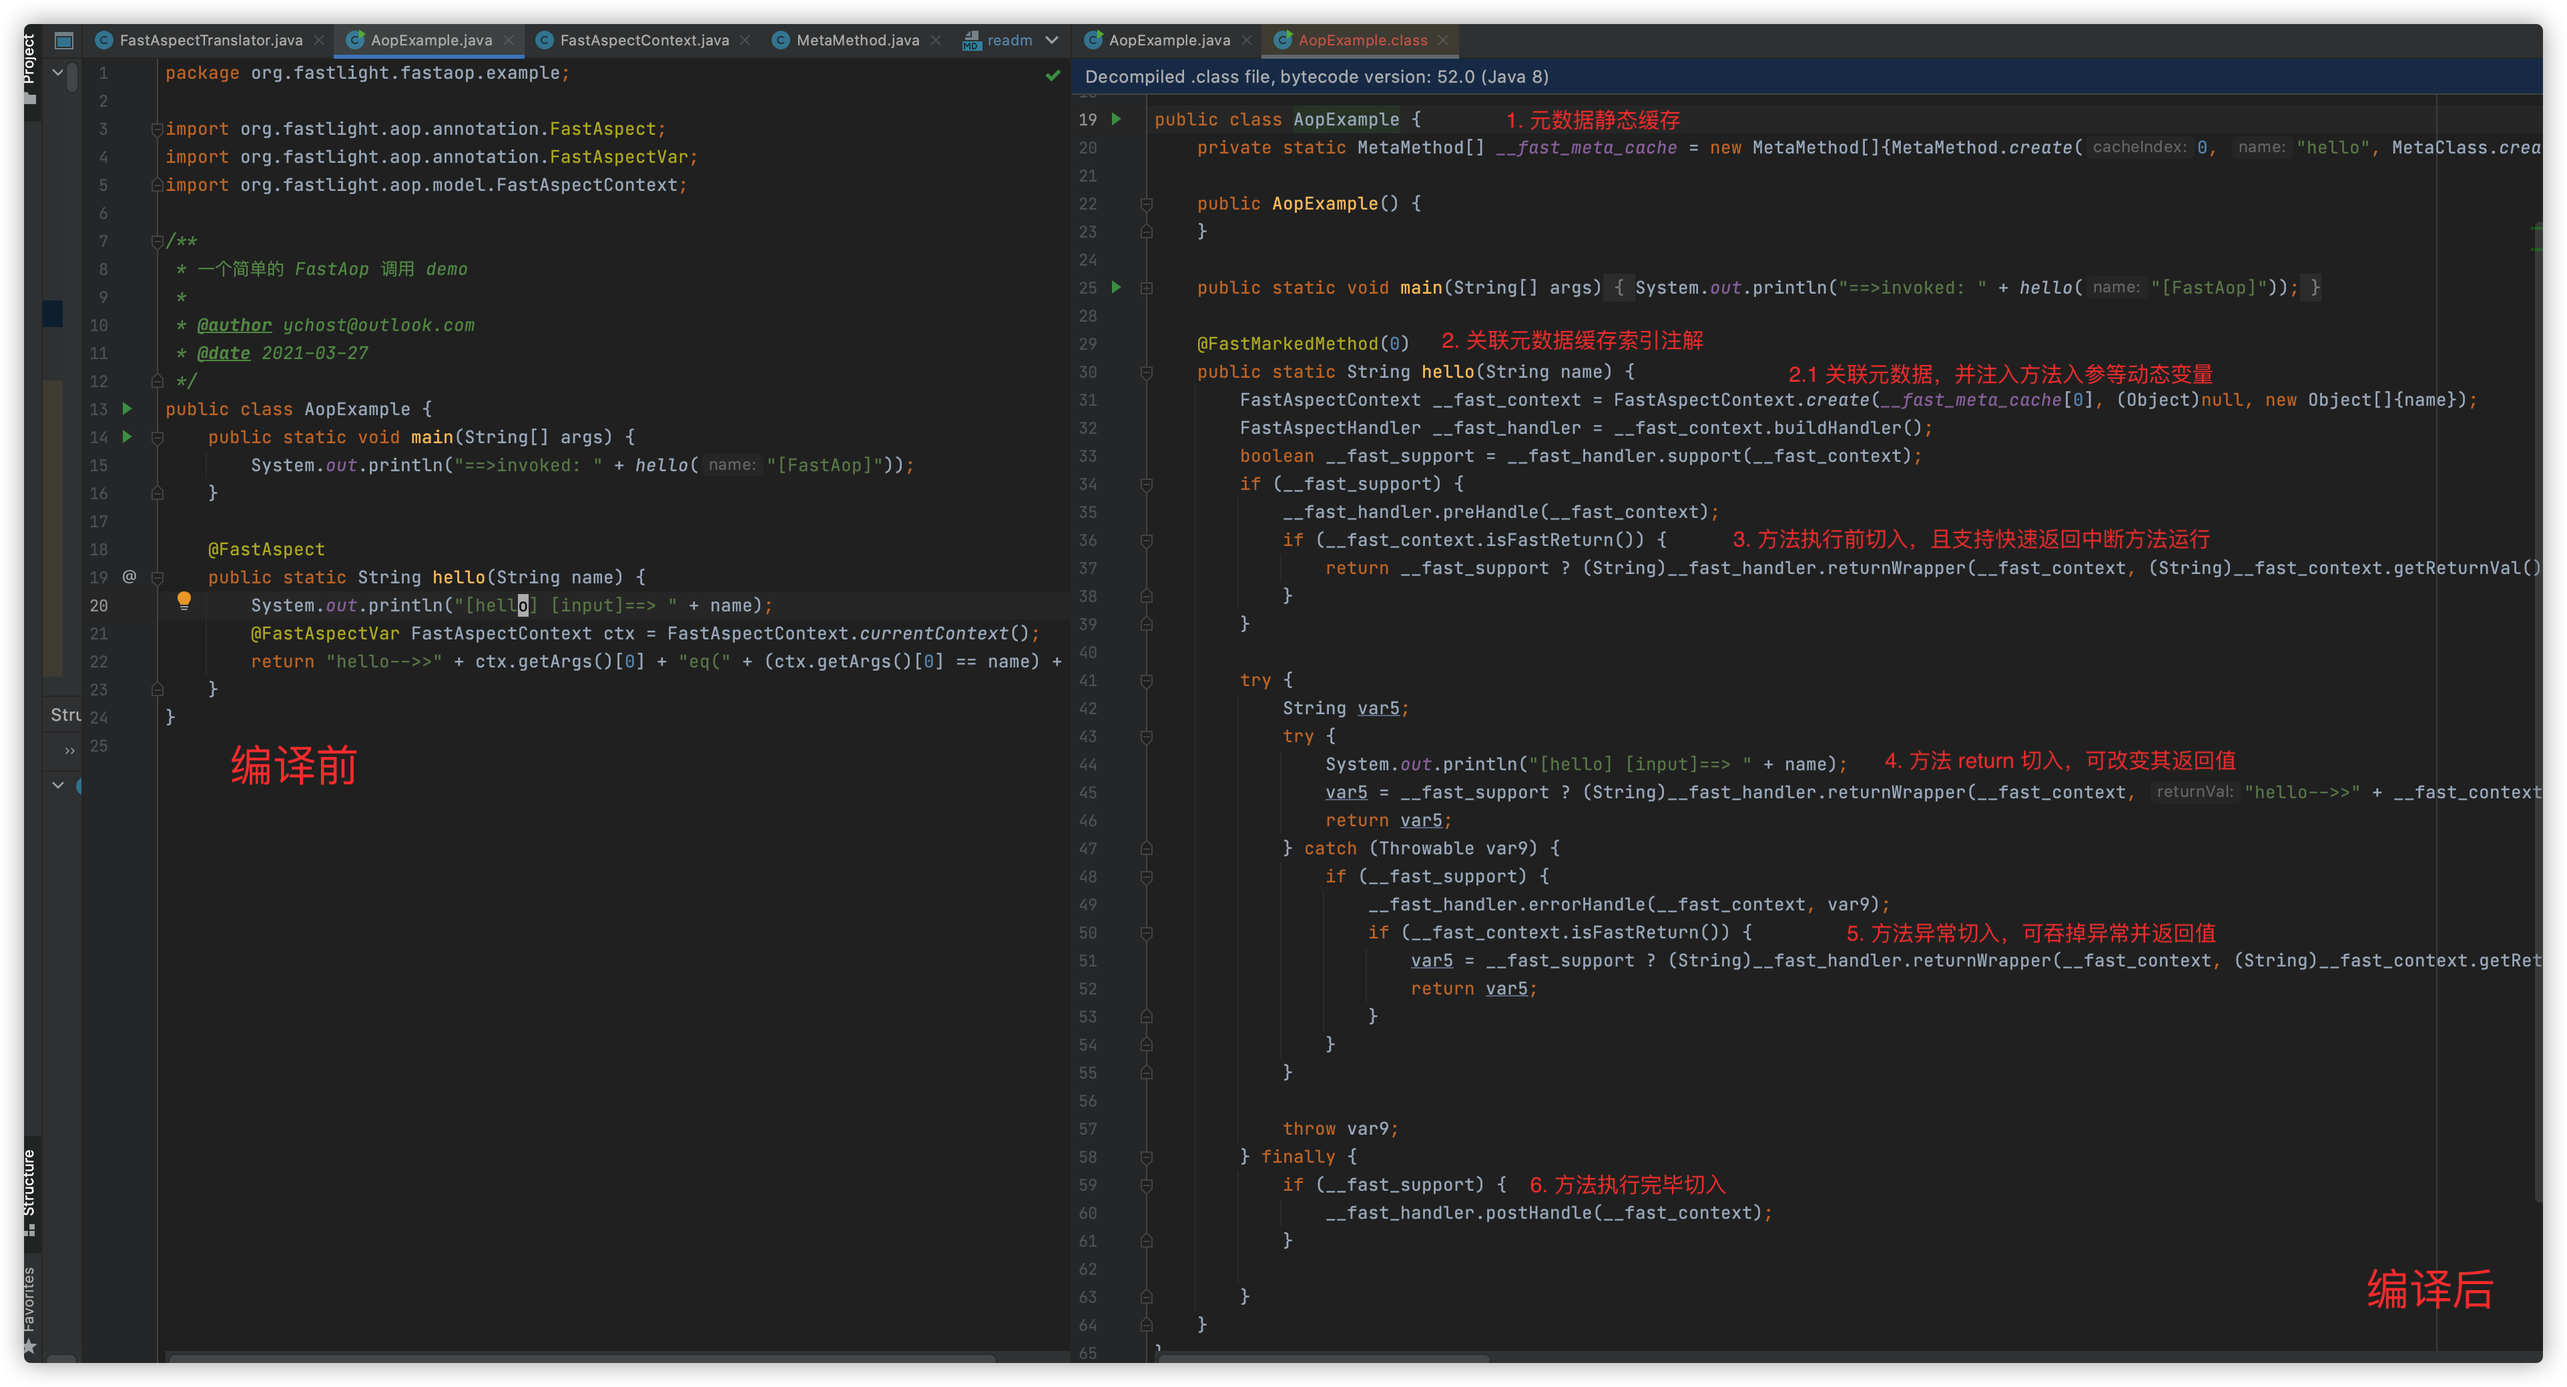
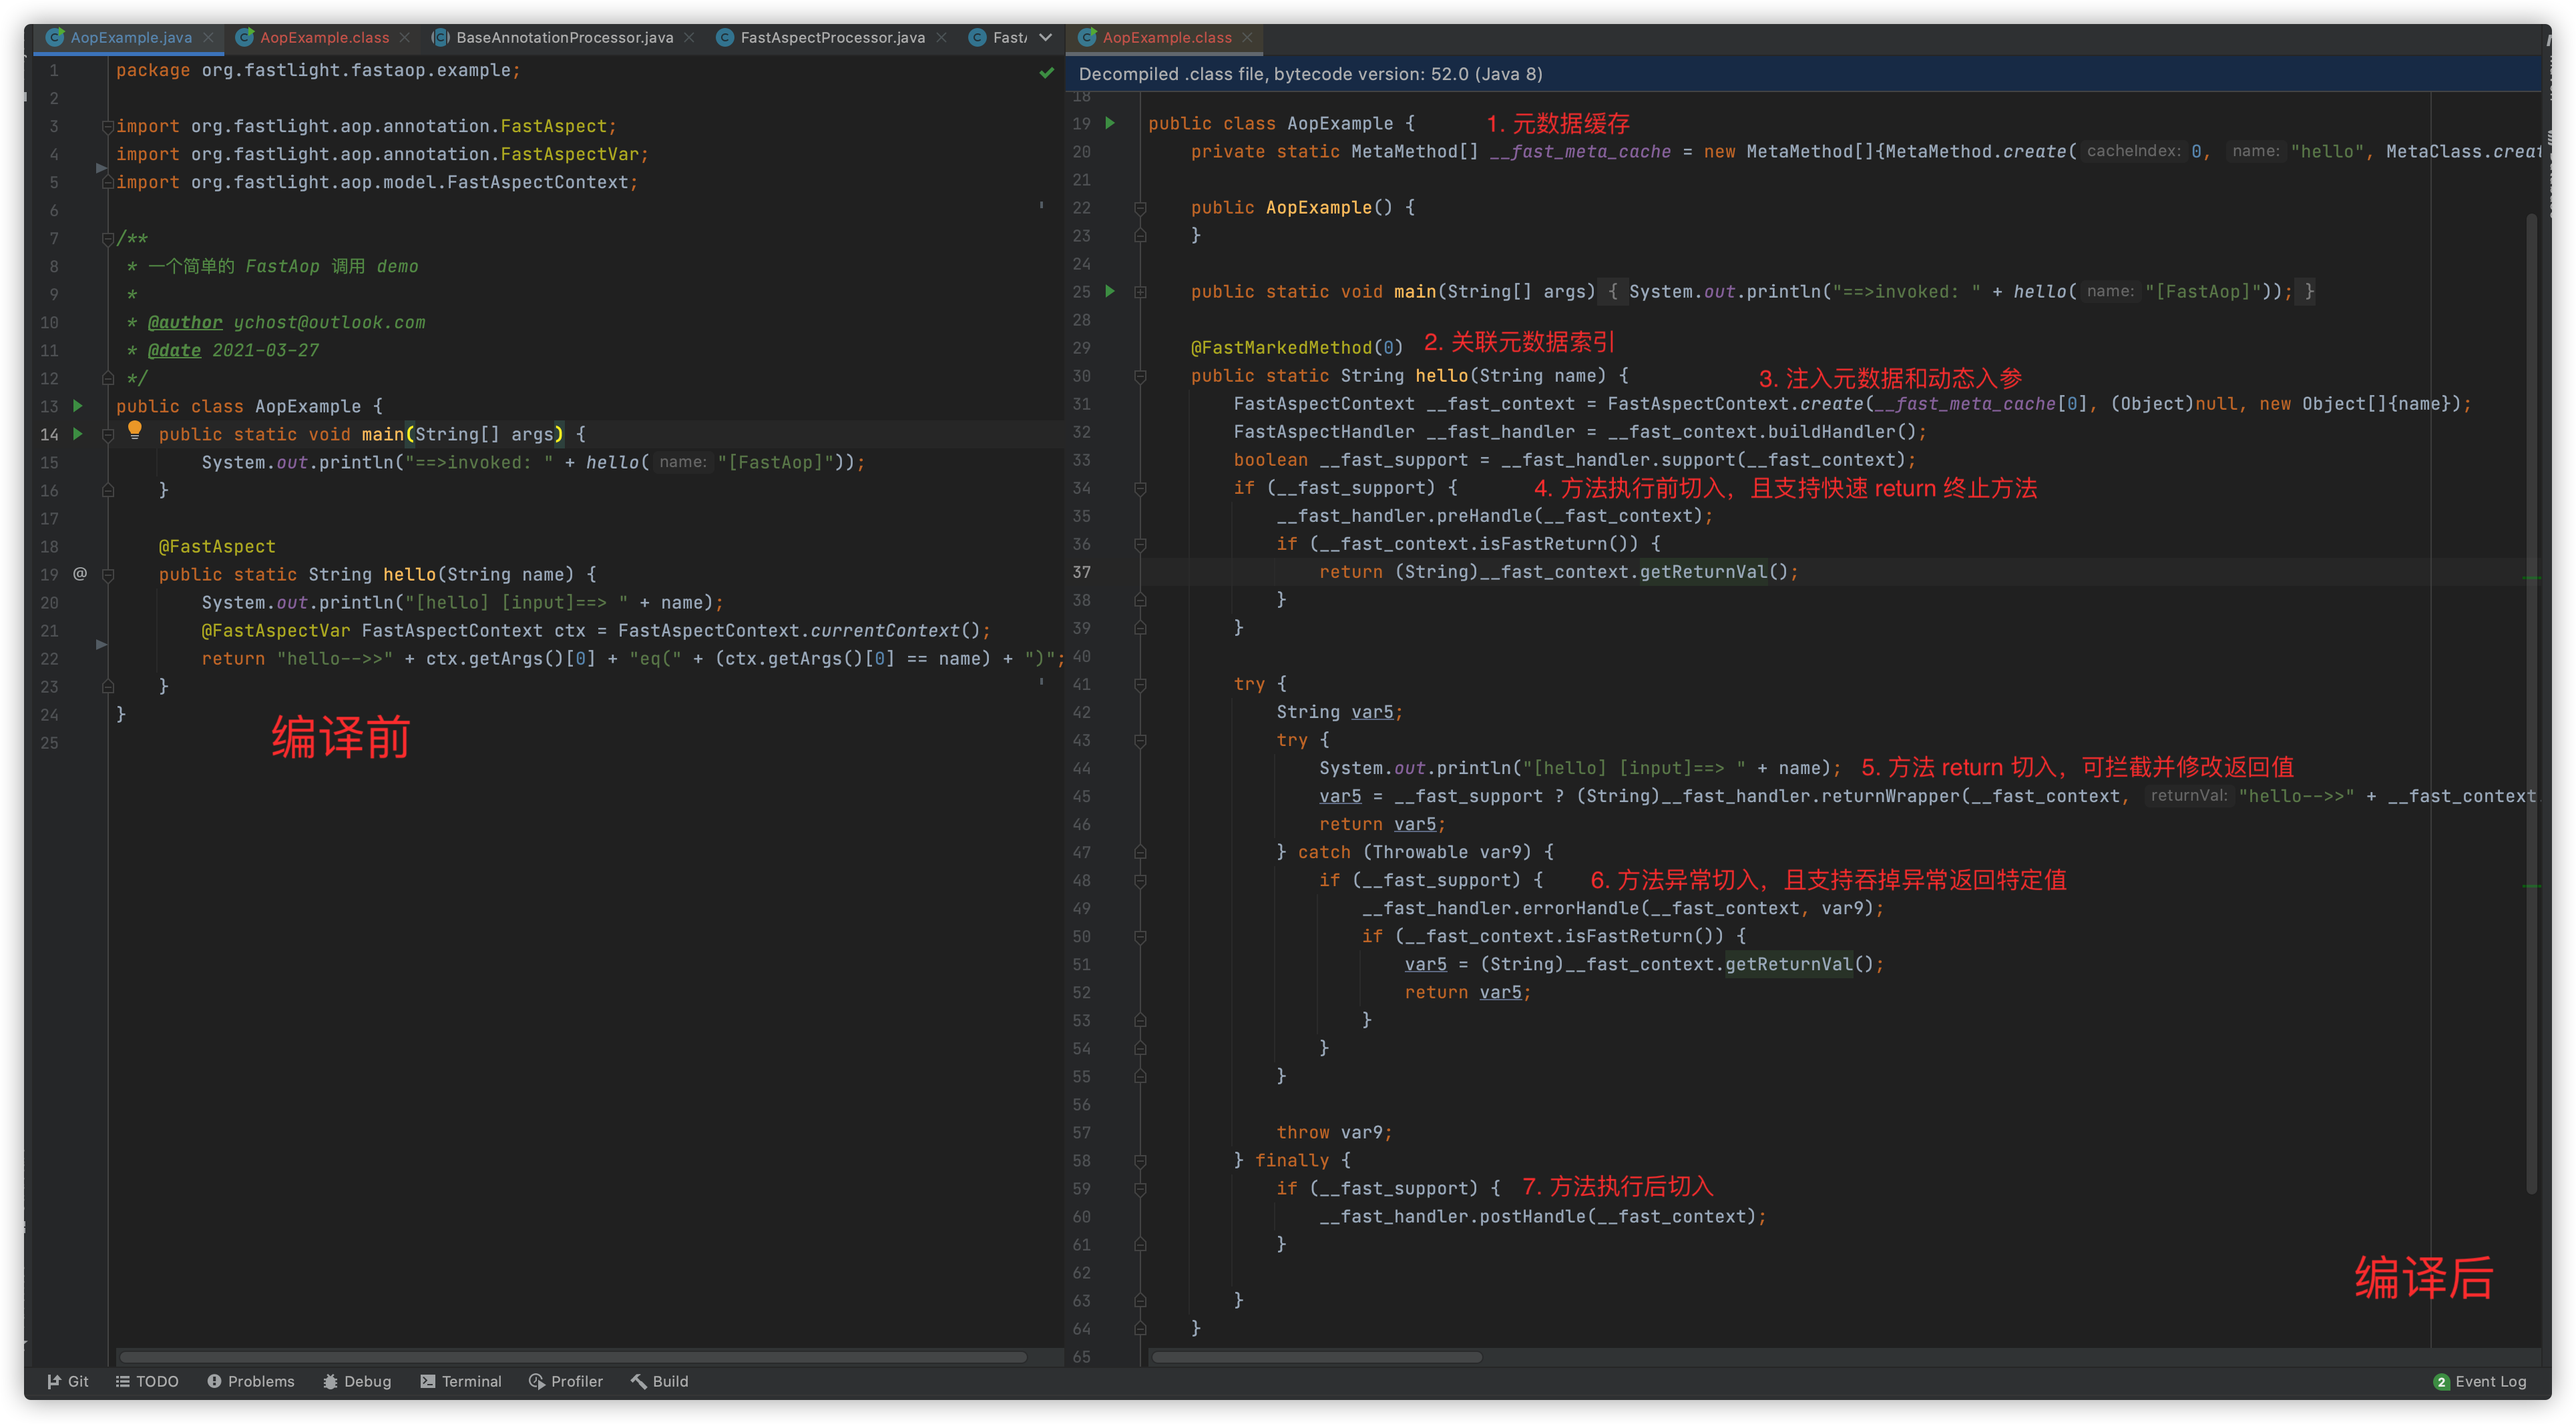
调整目录结构

diff --git a/example/src/main/java/org/fastlight/fastaop/example/AopExample.java b/example/src/main/java/org/fastlight/fastaop/example/AopExample.java
@@ -2,7 +2,6 @@ package org.fastlight.fastaop.example;
 
 import org.fastlight.aop.annotation.FastAspect;
 import org.fastlight.aop.annotation.FastAspectVar;
-import org.fastlight.aop.handler.FastAspectHandler;
 import org.fastlight.aop.model.FastAspectContext;
 
 /**
@@ -20,17 +19,6 @@ public class AopExample {
     public static String hello(String name) {
         System.out.println("[hello] [input]==> " + name);
         @FastAspectVar FastAspectContext ctx = FastAspectContext.currentContext();
-        new FastAspectHandler() {
-            @Override
-            public boolean support(FastAspectContext ctxs) {
-                System.out.println(ctx);
-                return false;
-            }
-
-            @Override
-            public void preHandle(FastAspectContext ctx) {
-            }
-        };
         return "hello-->>" + ctx.getArgs()[0] + "eq(" + (ctx.getArgs()[0] == name) + ")";
     }
 }

diff --git a/readme.md b/readme.md
@@ -147,7 +147,7 @@ FastAspectContext#getMetaMethod()
 | parameters     | 方法入参元数据（含参数名称和参数上面的注解）       |
 | annotations    | 方法上面的注解信息                                 |
 | method         | 反射获取的方法信息，有缓存                         |
-| metaExtensions | 元素数据扩展，生命周期为全局，仅在当前 Method 可见 |
+| metaExtensions | 元数据扩展，生命周期为全局，仅在当前 Method 可见 |
 
 ## 原理
 
@@ -155,7 +155,7 @@ FastAspectContext#getMetaMethod()
 
 对比 AopExample 编译前和编译后的两段代码，可以知道通过 @FastAspect 对 hello 方法进行了相关的改变，主要是在方法执行的各个生命周期回调了切面的相关接口
 
-![原理](http://pan.sudoyc.com:7878/apps/files_sharing/publicpreview/fqMTNMmHwJFa6xC?x=3710&y=1192&a=true&file=%25E5%258E%259F%25E7%2590%2586.png&scalingup=0)
+![原理](http://pan.sudoyc.com:7878/apps/files_sharing/publicpreview/xGC9DB5N9f8Ly57?x=3710&y=1192&a=true&file=%25E5%258E%259F%25E7%2590%2586.png&scalingup=0)
 
 ### 2. 切面逻辑注入
 
